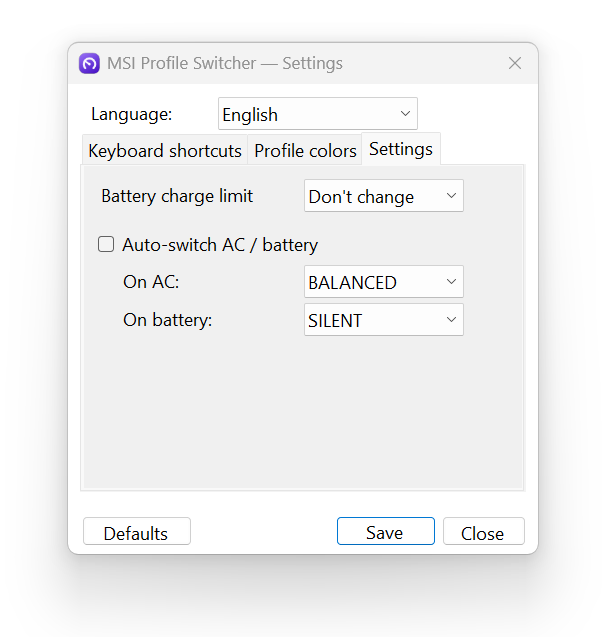
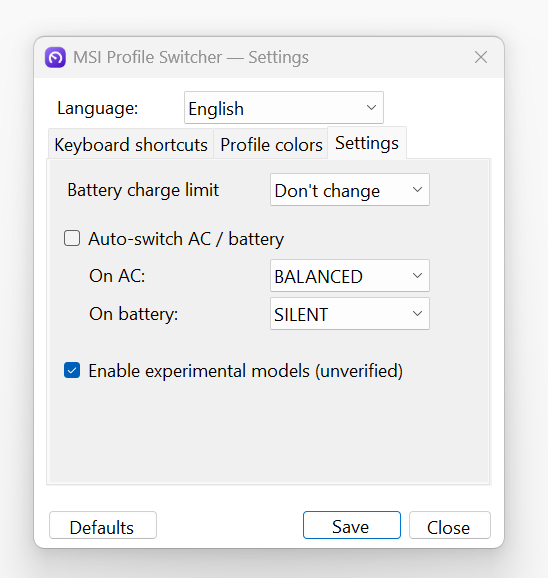
docs: update power screenshot, add Status screenshot; add CHANGELOG; release notes from CHANGELOG in workflow

diff --git a/CHANGELOG.md b/CHANGELOG.md
@@ -1,0 +1,41 @@
+# Changelog
+
+All notable changes to this project are documented here.
+Format loosely based on [Keep a Changelog](https://keepachangelog.com/).
+
+## [1.2.2] - 2026-06-27
+### Added
+- Coloured tier badge in the Status window: green **TESTED**, amber **EXPERIMENTAL**, red **UNSUPPORTED**.
+- `MSIPS_FORCE_FIRMWARE` developer switch to preview the experimental / unsupported UI — it simulates a firmware and performs **no EC writes**.
+### Fixed
+- Status "Model" row no longer overflows; the full model name is shown and the tier moved into the badge.
+
+## [1.2.1] - 2026-06-26
+### Added
+- Tested / Experimental indicator in the Status window and tray menu.
+### Changed
+- Diagnostic scripts (`scripts/diagnostics/`) translated to English; clearer step-by-step model-support issue template.
+### Fixed
+- Status "Model" row overflow that overlapped the CPU temperature line (ellipsis + tooltip + wider window).
+
+## [1.2.0] - 2026-06-26
+### Added
+- Experimental support for 7 MSI "Gaming Intel" models — GE68HX 13V, GS66 / GS65 Stealth, Katana GF66 / GF76, GE66 Raider / GP66 Leopard, GF65 Thin — built from the [msi-ec](https://github.com/BeardOverflow/msi-ec) register maps.
+- Device **tier** system (Tested vs Experimental) and an **opt-in** toggle for experimental models (Settings → Power).
+
+## [1.1.0] - 2026-06-26
+### Added
+- Multi-model device layer and a **firmware safety gate**: on an unrecognized EC firmware the app stays read-only (no writes).
+- "Model support request" issue template for community contributions.
+
+## [1.0.1] - 2026-06-26
+### Added
+- "Always on top" toggle for the Status window (persisted).
+### Fixed
+- Status window widened and header auto-sized so profile names are no longer cut off.
+
+## [1.0.0] - 2026-06-26
+### Added
+- Initial release. Tray app to switch MSI power profiles (Silent / Balanced / Extreme / Super Battery) via the tray menu or global hotkeys, with an on-screen overlay.
+- 8 UI languages, per-profile colours, Status / Diagnostics window (live CPU/GPU temperatures & fans via EC), autostart, AC/battery auto-switch, battery charge limit.
+- EC control through MSI's official WMI interface (`root\wmi` → `MSI_ACPI`) — no kernel driver, no security changes.

diff --git a/README.md b/README.md
@@ -23,10 +23,12 @@ Built because **MSI Center 2.0 removed the _Silent_ profile**. This app talks to
 
 | | |
 |:---:|:---:|
-| ![Tray menu](docs/images/tray-menu.png) | ![Keyboard shortcuts](docs/images/settings-hotkeys.png) |
-| **Tray menu** — switch profile, Status, Language, Settings | **Settings** — rebindable global hotkeys + autostart |
-| ![Profile colors](docs/images/settings-colors.png) | ![Power options](docs/images/settings-power.png) |
-| **Profile colors** — 12-swatch palette per profile | **Power** — battery charge limit + AC/battery auto-switch |
+| ![Tray menu](docs/images/tray-menu.png) | ![Status / Diagnostics](docs/images/status.png) |
+| **Tray menu** — switch profile, Status, Language, Settings | **Status** — live temps/fans, tier badge, EC info |
+| ![Keyboard shortcuts](docs/images/settings-hotkeys.png) | ![Profile colors](docs/images/settings-colors.png) |
+| **Shortcuts** — rebindable global hotkeys + autostart | **Colors** — 12-swatch palette per profile |
+| ![Power options](docs/images/settings-power.png) | |
+| **Power** — charge limit, AC/battery auto-switch, experimental models | |
 
 ## Download
 

diff --git a/docs/TECHNICAL.md b/docs/TECHNICAL.md
@@ -303,8 +303,10 @@ A full-featured program that supersedes the PS scripts (kept as a backend/refere
 
 **Screenshots:**
 
-| Tray menu | Keyboard shortcuts |
+| Tray menu | Status / Diagnostics |
 |:---:|:---:|
-| ![Tray menu](images/tray-menu.png) | ![Shortcuts](images/settings-hotkeys.png) |
-| Profile colors | Power |
-| ![Colors](images/settings-colors.png) | ![Power](images/settings-power.png) |
+| ![Tray menu](images/tray-menu.png) | ![Status](images/status.png) |
+| Keyboard shortcuts | Profile colors |
+| ![Shortcuts](images/settings-hotkeys.png) | ![Colors](images/settings-colors.png) |
+| Power | |
+| ![Power](images/settings-power.png) | |

diff --git a/docs/TECHNICAL.pl.md b/docs/TECHNICAL.pl.md
@@ -335,8 +335,10 @@ Pełnoprawny program zastępujący skrypty PS (te zostają jako zaplecze/dokumen
 
 **Zrzuty ekranu:**
 
-| Menu w trayu | Skróty klawiszowe |
+| Menu w trayu | Status / Diagnostyka |
 |:---:|:---:|
-| ![Menu tray](images/tray-menu.png) | ![Skróty](images/settings-hotkeys.png) |
-| Kolory profili | Zasilanie |
-| ![Kolory](images/settings-colors.png) | ![Zasilanie](images/settings-power.png) |
+| ![Menu tray](images/tray-menu.png) | ![Status](images/status.png) |
+| Skróty klawiszowe | Kolory profili |
+| ![Skróty](images/settings-hotkeys.png) | ![Kolory](images/settings-colors.png) |
+| Zasilanie | |
+| ![Zasilanie](images/settings-power.png) | |